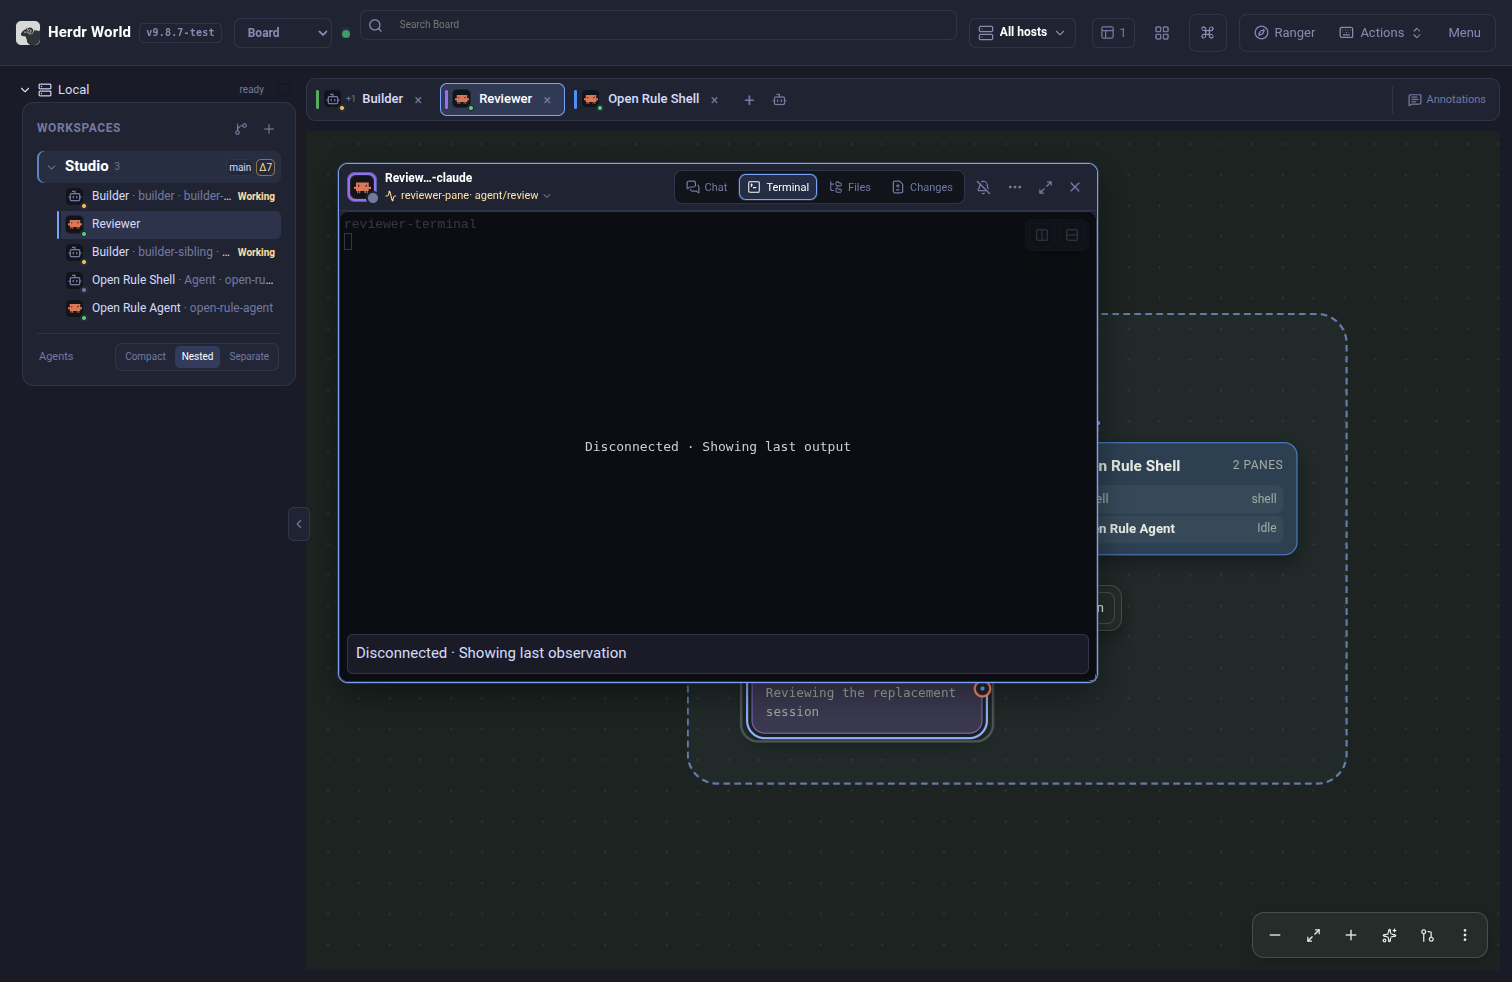
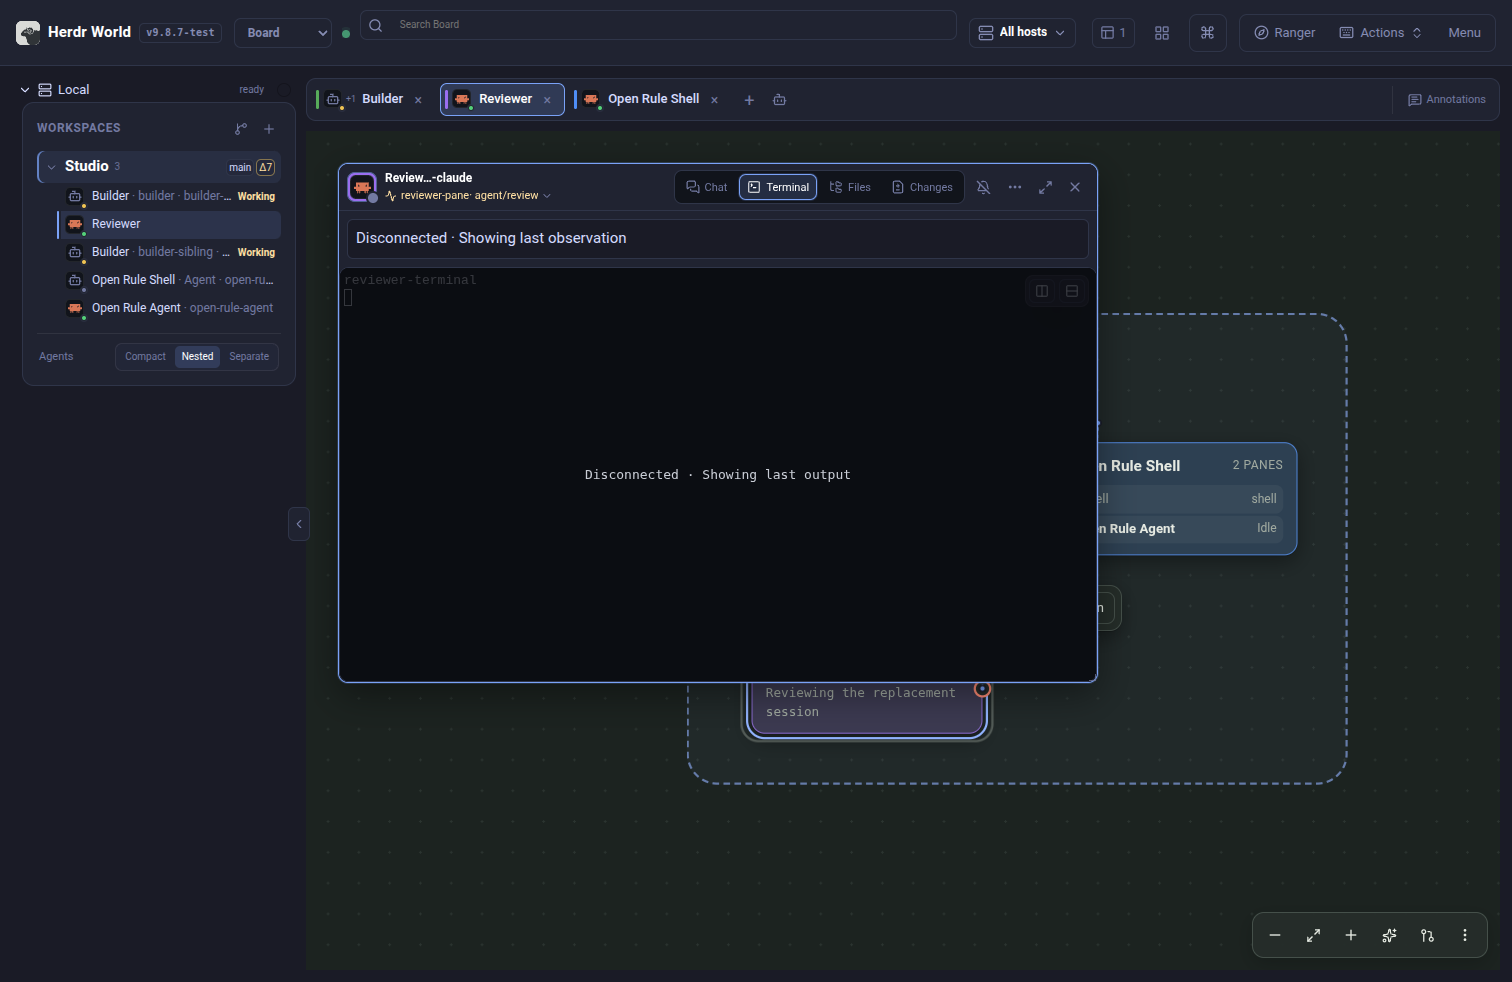
fix: keep stale Inspector status clear of phone Message drafts

diff --git a/web/src/world/WorldTerminalHandoff.browser.tsx b/web/src/world/WorldTerminalHandoff.browser.tsx
@@ -2165,6 +2165,34 @@ async function run() {
     "value",
   )!.set!.call(inspectorEditor, "Unsent mobile draft");
   inspectorEditor.dispatchEvent(new InputEvent("input", { bubbles: true }));
+  const beforePhoneDisconnect = store.get();
+  const phoneClientCurrent = client.isCurrent;
+  client.isCurrent = () => false;
+  flushSync(() =>
+    __storeTesting.replaceState({
+      ...store.get(),
+      status: "disconnected",
+      catalogueReady: false,
+    }),
+  );
+  await settle();
+  const phoneStale = mobileInspector
+    .closest(".workspace-inspector-slot")!
+    .querySelector<HTMLElement>(".world-inspector-stale")!;
+  const staleBounds = phoneStale.getBoundingClientRect();
+  const draftBounds = inspectorEditor.getBoundingClientRect();
+  check(
+    inspectorEditor.value === "Unsent mobile draft" &&
+      draftBounds.height > 0 &&
+      staleBounds.height > 0 &&
+      staleBounds.top >= mobileHeader.getBoundingClientRect().bottom &&
+      (staleBounds.bottom <= draftBounds.top ||
+        staleBounds.top >= draftBounds.bottom),
+    "phone stale indicator covers the retained Message draft",
+  );
+  client.isCurrent = phoneClientCurrent;
+  flushSync(() => __storeTesting.replaceState(beforePhoneDisconnect));
+  await settle();
   const uploadInput = mobileInspector.querySelector<HTMLInputElement>(
     '.terminal-composer input[type="file"]',
   )!;
@@ -5679,10 +5707,7 @@ async function run() {
       Object.getOwnPropertyDescriptor(
         HTMLTextAreaElement.prototype,
         "value",
-      )!.set!.call(
-        editor,
-        "Unsent synthetic Message — retained through reconnect",
-      );
+      )!.set!.call(editor, "Unsent synthetic Message");
       editor.dispatchEvent(new InputEvent("input", { bubbles: true }));
     });
     client.isCurrent = () => false;

diff --git a/web/src/components/WorkspaceInspectorHost.tsx b/web/src/components/WorkspaceInspectorHost.tsx
@@ -5,6 +5,7 @@ import {
   INSPECTOR_TAB_ORDER,
 } from "./WorkspaceInspectorViewSelect";
 import { WorkspaceInspectorLocation } from "./WorkspaceInspectorLocation";
+import { WorkspaceInspectorStatus } from "./WorkspaceInspectorStatus";
 import { AgentWorktreeGate } from "./AgentWorktreePicker";
 import type { AgentWorktreeView } from "../useAgentWorktree";
 import { useEffectCallback } from "../useEffectCallback";
@@ -929,14 +930,12 @@ export function WorkspaceInspectorHost({
         )}
       </header>
 
-      {!workspace ? (
-        <div className="workspace-inspector-unavailable">
-          <strong>Checkout unavailable</strong>
-          <span>
-            The workspace used to route this Inspector is no longer open.
-          </span>
-        </div>
-      ) : (
+      <WorkspaceInspectorStatus
+        stale={presentationStale}
+        available={!!workspace}
+      />
+
+      {workspace ? (
         <div
           className="workspace-inspector-body"
           ref={(element) =>
@@ -1340,7 +1339,7 @@ export function WorkspaceInspectorHost({
             </div>
           ) : null}
         </div>
-      )}
+      ) : null}
     </aside>
   );
 }

diff --git a/web/src/components/WorkspaceInspectorStatus.tsx b/web/src/components/WorkspaceInspectorStatus.tsx
@@ -1,0 +1,26 @@
+/** Status stays outside the inert resource body and never overlays its editor. */
+export function WorkspaceInspectorStatus({
+  stale,
+  available,
+}: {
+  stale: boolean;
+  available: boolean;
+}) {
+  return (
+    <>
+      {stale ? (
+        <div className="world-inspector-stale" role="status">
+          Disconnected · Showing last observation
+        </div>
+      ) : null}
+      {!available ? (
+        <div className="workspace-inspector-unavailable">
+          <strong>Checkout unavailable</strong>
+          <span>
+            The workspace used to route this Inspector is no longer open.
+          </span>
+        </div>
+      ) : null}
+    </>
+  );
+}

diff --git a/web/src/world/WorldInspectorConversation.tsx b/web/src/world/WorldInspectorConversation.tsx
@@ -528,11 +528,6 @@ function InspectorResources({
           className="workspace-inspector-slot"
           data-stale={presentationStale || undefined}
         >
-          {presentationStale ? (
-            <div className="world-inspector-stale" role="status">
-              Disconnected · Showing last observation
-            </div>
-          ) : null}
           <Suspense fallback={null}>
             <WorkspaceInspectorHost
               state={inspectorState}

diff --git a/web/src/world/world-inspector.css b/web/src/world/world-inspector.css
@@ -202,13 +202,9 @@
   font-size: 13px;
 }
 
-.workspace-inspector-slot[data-stale] {
-  position: relative;
-}
 .world-inspector-stale {
-  position: absolute;
-  z-index: 5;
-  inset: auto 8px 8px;
+  flex: 0 0 auto;
+  margin: 8px;
   padding: 8px;
   color: var(--text);
   background: var(--bg);

diff --git a/docs/reviews/mobile-resume.md b/docs/reviews/mobile-resume.md
@@ -5,21 +5,25 @@ with Chrome 153.0.8010.52 at device scale factor 1. The Mac/Linux names below
 identify viewport contexts; all captures use the same isolated Chromium
 fixture. They are not native macOS, phone, or OS background/discard evidence.
 
-The real World shell and Inspector show the fixture's synthetic Studio workspace,
-Reviewer terminal and an unsent synthetic Message. The disconnected state retains
-last output, disables operations and shows both stale indicators. The recovery
+The real World shell and Inspector show the fixture's synthetic Studio workspace
+and Reviewer terminal. Phone captures also show the retained draft text,
+"Unsent synthetic Message", in the mobile Message editor; wider contexts show
+the terminal in desktop layout. The disconnected state retains last output,
+disables operations and shows both stale indicators. The recovery
 state follows three acknowledged attaches without frames and shows **Retry
 terminal** and explicit **Reload app**. No real hosts, credentials, sessions or
 repository content are used. Screenshots are unedited viewport captures.
 
 ## Phone — 390 × 844
 
-Disconnected synthetic Reviewer Inspector and retained terminal — **390 × 844**.
+Disconnected synthetic Reviewer Inspector, retained terminal and visible unsent
+Message draft — **390 × 844**. The Inspector stale notice sits above the editor.
 
 ![Disconnected Reviewer Inspector, 390 × 844](mobile-resume/disconnected-phone.png)
 
-Synthetic Reviewer terminal after its no-frame budget is exhausted — **390 × 844**.
-Retry terminal and Reload app remain distinct actions.
+Synthetic Reviewer terminal after its no-frame budget is exhausted, with the
+unsent Message draft visible below — **390 × 844**. Retry terminal and Reload
+app remain distinct actions.
 
 ![Local terminal recovery controls, 390 × 844](mobile-resume/recovery-phone.png)
 

diff --git a/docs/knowledge-map.md b/docs/knowledge-map.md
@@ -66,6 +66,8 @@ record the transport teardown analysis and scope. Current L1 ownership lives in
 [the frontend guide](foundation-guide.md#browser-ownership),
 [terminal renderer](../web/src/terminalRenderer.ts) and
 [resource presentation cache identity](../web/src/resourcePresentationClient.ts).
+The [Inspector status row](../web/src/components/WorkspaceInspectorStatus.tsx)
+keeps stale notices clear of the retained Message editor.
 The [real resource-child regression](../web/src/world/WorldInspectorResourceResume.test.ts)
 covers disconnect, delayed worktree readmission and replacement; the
 [World browser regression](../web/src/world/WorldTerminalHandoff.test.ts) covers

diff --git a/changes/mobile-resume.md b/changes/mobile-resume.md
@@ -8,3 +8,5 @@
 - Keep cached Files and Changes content while the same worktree is being
   readmitted after reconnect, and preserve other Inspectors' Message drafts
   until a fresh catalogue confirms their runtime was replaced or removed.
+  Keep the stale Inspector notice above the phone Message editor so retained
+  drafts remain visible.
